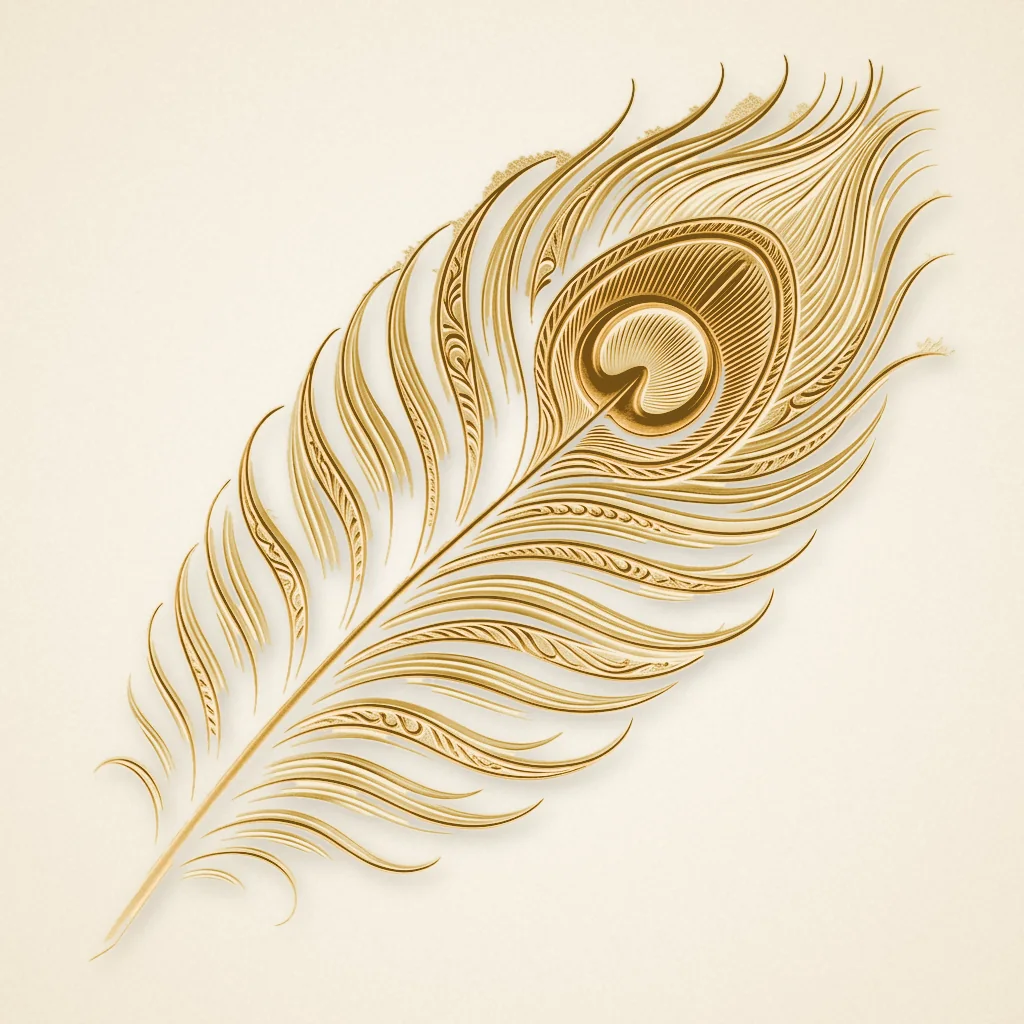
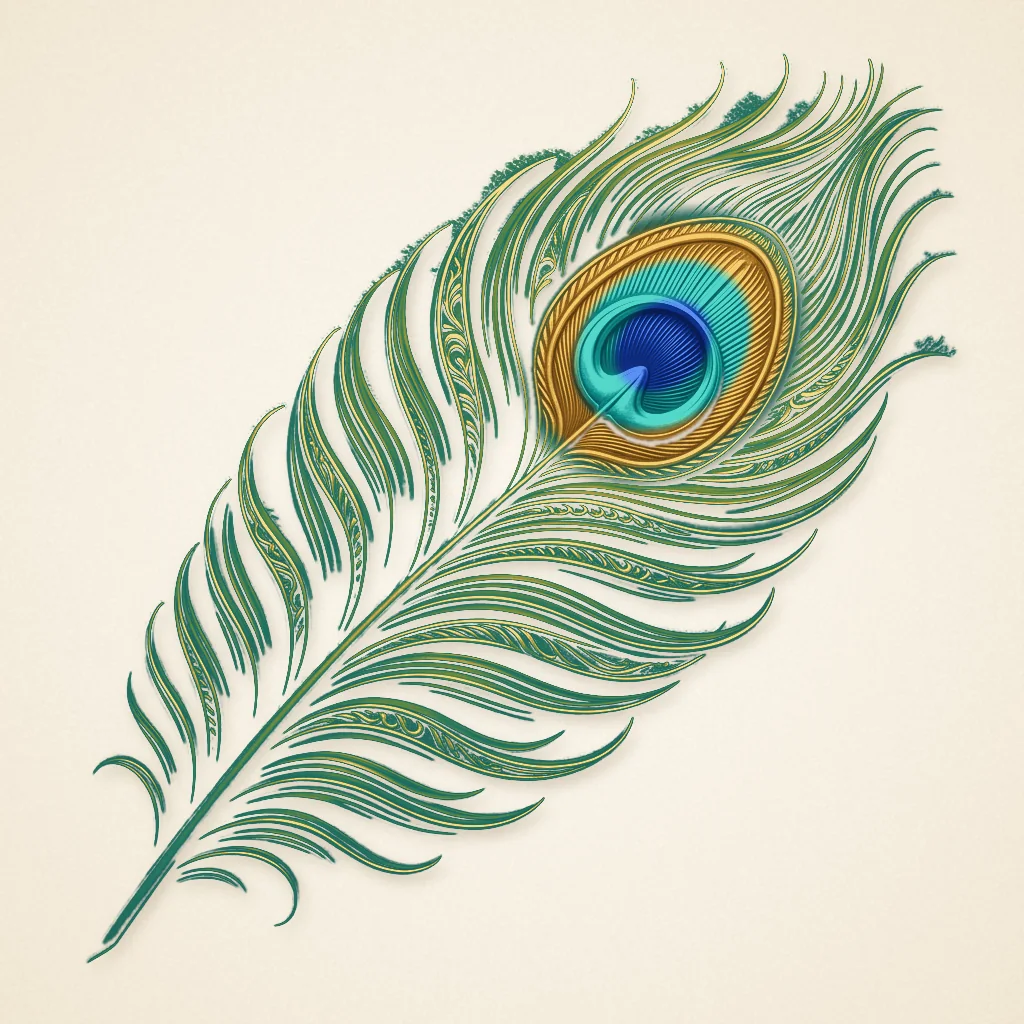
Light mode: true peacock-colour feathers and a richer theme
Feathers recoloured with sapphire hearts, turquoise bands and gold rings on teal-green
barbs; gaps between barbs show the cream paper and shadows follow the visible barbs.
Light theme: gold hairline borders and layered warm shadows on cards, a gold rule under
the navbar, peacock-ink headings, gold focus rings; dashboard feather repositioned.

Changed region(s): [[0.0938, 0.0625, 0.9375, 0.9375]]

diff --git a/frontend/src/index.css b/frontend/src/index.css
@@ -58,7 +58,7 @@
   --accent-danger: #b91c1c;
   --accent-warning: #b45309;
 
-  --border-color: #e4ddcc;
+  --border-color: #e8dec6;
   --border-gold: rgba(138, 106, 16, 0.35);
   --glass-shadow: 0 4px 20px rgba(60, 45, 10, 0.08);
   --glass-bg: rgba(247, 241, 228, 0.85);
@@ -450,10 +450,32 @@ p {
   background-size: 100% 100%, 100% 100%, 60px 60px, 60px 60px;
 }
 :root[data-theme="light"] .glass-card {
-  box-shadow: var(--glass-shadow);
+  background: linear-gradient(180deg, #ffffff 0%, #fffdf8 100%);
+  border-color: rgba(176, 138, 48, 0.22);
+  box-shadow: 0 1px 2px rgba(60, 45, 10, 0.05), 0 10px 28px -6px rgba(60, 45, 10, 0.12);
 }
 :root[data-theme="light"] .glass-card:hover {
-  box-shadow: 0 8px 30px rgba(138, 106, 16, 0.1);
+  border-color: rgba(176, 138, 48, 0.45);
+  box-shadow: 0 1px 2px rgba(60, 45, 10, 0.06), 0 14px 34px -6px rgba(60, 45, 10, 0.16);
+}
+/* Deep peacock ink for headings */
+:root[data-theme="light"] h1,
+:root[data-theme="light"] h2,
+:root[data-theme="light"] h3 {
+  color: #10302d;
+}
+/* Gold hairline under the navbar */
+:root[data-theme="light"] .navbar {
+  border-bottom: 1px solid transparent !important;
+  border-image: linear-gradient(90deg, transparent, rgba(176, 138, 48, 0.55) 20%, rgba(176, 138, 48, 0.55) 80%, transparent) 1;
+  box-shadow: 0 6px 20px -12px rgba(60, 45, 10, 0.25);
+}
+:root[data-theme="light"] .input-field {
+  border-color: #e2d6b8;
+}
+:root[data-theme="light"] .input-field:focus {
+  border-color: #b08a30;
+  box-shadow: 0 0 0 3px rgba(176, 138, 48, 0.18);
 }
 :root[data-theme="light"] .auth-bg-image {
   background-position: right center;
@@ -471,8 +493,11 @@ p {
 :root[data-theme="light"] .yatra-bg-overlay {
   background: rgba(247, 241, 228, 0.3);
 }
+:root[data-theme="light"] .dash-bg-image {
+  background-position: center 30%;
+}
 :root[data-theme="light"] .dash-bg-overlay {
-  background: linear-gradient(45deg, rgba(247, 241, 228, 0.3) 0%, rgba(247, 241, 228, 0.5) 60%, rgba(247, 241, 228, 0.65) 100%);
+  background: linear-gradient(45deg, rgba(247, 241, 228, 0.12) 0%, rgba(247, 241, 228, 0.3) 60%, rgba(247, 241, 228, 0.45) 100%);
 }
 
 /* Theme switch in the navbar */
